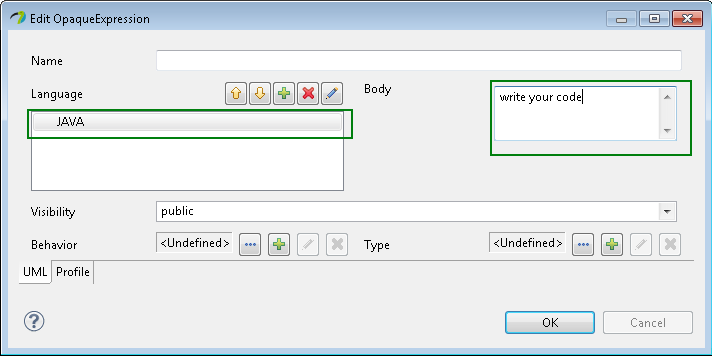
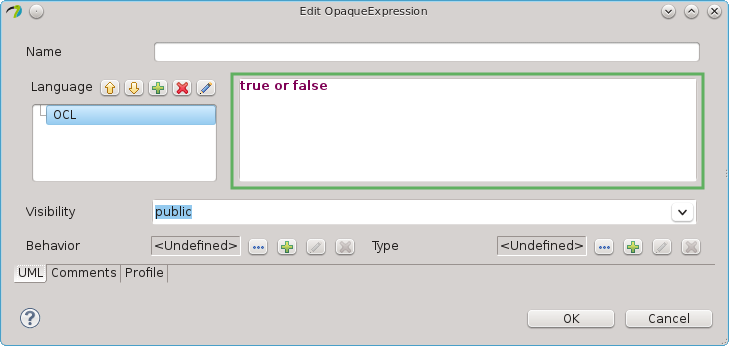
Bug 427025 - [OCL For Papyrus] Cannot create OCL constraints in Luna: update documentation

diff --git a/plugins/doc/org.eclipse.papyrus.dsml.validation.doc/resource/dsml-validation.html b/plugins/doc/org.eclipse.papyrus.dsml.validation.doc/resource/dsml-validation.html
@@ -1,16 +1,39 @@
-<?xml version='1.0' encoding='utf-8' ?><!DOCTYPE html PUBLIC "-//W3C//DTD XHTML 1.0 Transitional//EN" "http://www.w3.org/TR/xhtml1/DTD/xhtml1-transitional.dtd"><html xmlns="http://www.w3.org/1999/xhtml"><head><meta http-equiv="Content-Type" content="text/html; charset=utf-8"/></head><body><p>In order to validate constraints from a profile, first creation of constraint with specific annotations will be explained and then generation of validation will be explained.<br/>
+<?xml version='1.0' encoding='utf-8' ?><!DOCTYPE html PUBLIC "-//W3C//DTD XHTML 1.0 Transitional//EN" "http://www.w3.org/TR/xhtml1/DTD/xhtml1-transitional.dtd"><html xmlns="http://www.w3.org/1999/xhtml"><head><meta http-equiv="Content-Type" content="text/html; charset=utf-8"/></head>
+<body><p>In order to validate constraints from a profile, first creation of constraints with specific annotations will be explained and then generation of validation will be explained.<br/>
 <img border="0" src="ConstraintCreationUseCase.png"/><br/> 
-Figure 1: Constraint creation<br/></p><h1 id="Create_a_constraint">Create a constraint</h1><p>In the context of the construction of a profile, it is possible to add constraints.<br/>
-A constraint is a condition or restriction expressed in a language for the purpose of declaring some of the semantics of an element.<br/></p><h3 id="How_to">How to</h3><p>In the context of a profile diagram you can create a constraint from the palette.<br/></p><pre><img border="0" src="diagramConstraintCreation.png"/> <br/>
+Figure 1: Constraint creation<br/></p>
+
+<h1 id="Create_a_constraint">Create a constraint</h1>
+<p>In the context of the construction of a profile (but also in any class diagram), it is possible to add constraints.<br/>
+
+A constraint is a condition or restriction expressed in a language for the purpose of declaring some of the semantics of an element.<br/></p>
+
+<h3 id="How_to">How to</h3><p>In the context of a profile diagram you can create a constraint from the palette.<br/>
+</p><pre><img border="0" src="diagramConstraintCreation.png"/> <br/>
 </pre><p>Figure 2: Constraint creation from the palette<br/>
 From the model explorer, click right --> new child--> Create a new Constraint<br/></p><pre> <img border="0" src="MEConstraintCreation.png"/><br/> 
-</pre><p>Figure 3: Constraint creation from the model explorer<br/></p><h2 id="Specify_the_context">Specify the context</h2><p>Before editing a constraint, it is important to specify the constraint; it can be a stereotype, an operation.<br/></p><h3 id="How_to_2">How to</h3><p>From the diagram, a context link can be added between the constraints and the context of the constraint:<br/></p><pre><img border="0" src="DiagramContextLink.png"/><br/> 
+</pre><p>Figure 3: Constraint creation from the model explorer<br/></p>
+
+<h2 id="Specify_the_context">Specify the context</h2>
+
+<p>Before editing a constraint, it is important to specify the context of a constraint; it can be for instance a stereotype or an operation (in fact, it can be any meta-model element that inherits from namespace).<br/></p>
+
+<h3 id="How_to_2">How to</h3><p>
+Since Eclipse Luna, Papyrus automatically selects the context-link-tool after creation of a constraint. It will also already set the newly created constraint as one end of the context-link relationship. The user needs to select the owning context which can be any meta-model elements that is a sub-class of namespace. This tool is available in the Relationships folder of the the palette, as shown in the following figure:<br/></p><pre><img border="0" src="DiagramContextLink.png"/><br/> 
 </pre><p>Figure 4: Context link creation in a the profile diagram<br/>
 <br/>
 From the property view, the context can be specified:<br/></p><pre><img border="0" src="propertyviewContextlink.png"/><br/> 
-</pre><p>Figure 5: specify context from the property view<br/></p><h2 id="Specify_the_language">Specify the language</h2><p>It is possible to precise the language of the constraint into Papyrus. The constraint body may be written into OCL, JAVA, or natural language.<br/> In order to make constraints usable by the Papyrus, constraint must be written in OCL or JAVA.<br/> </p><h3 id="How_to_3">How to</h3><p>By default if your try to edit a constraint, default language will be OCL.<br/>
-At the creation, after set the context, you can choose the editor for the constraint:<br/></p><pre><img border="0" src="constraintEdition.png"/><br/> 
+</pre><p>Figure 5: specify context from the property view<br/></p>
+
+<h2 id="Specify_the_language">Specify the language</h2>
+<p>
+It is possible to precise the language of the constraint into Papyrus. The constraint body may be written into OCL, JAVA, or natural language.<br/> In order to make constraints usable by the Papyrus, constraint must be written in OCL or JAVA.<br/> </p>
+
+<h3 id="How_to_3">How to</h3>
+<p>The default language for editing a constraint is OCL (controllable via the preferences).<br/>
+At the creation, after setting the context, you can choose the editor for the constraint:<br/></p><pre><img border="0" src="constraintEdition.png"/><br/> 
 </pre><p>Figure 6: choose the editor for the constraint<br/>
+Alternatively, the default editor for constraints (controllable via the preferences) will pop-up on the second click on a constraint or when using the keyboard shortcut F2.
 You can also specify the language in the property view:<br/> </p><ul><li>Select the field specification and choose create or edit the associated opaque expression:</li></ul><pre><img border="0" src="SpecificationCreation.png"/><br/> 
 </pre><p>Figure 7: creation of a specification for the constraint<br/>
 You can add the language, see following figure:<br/>
